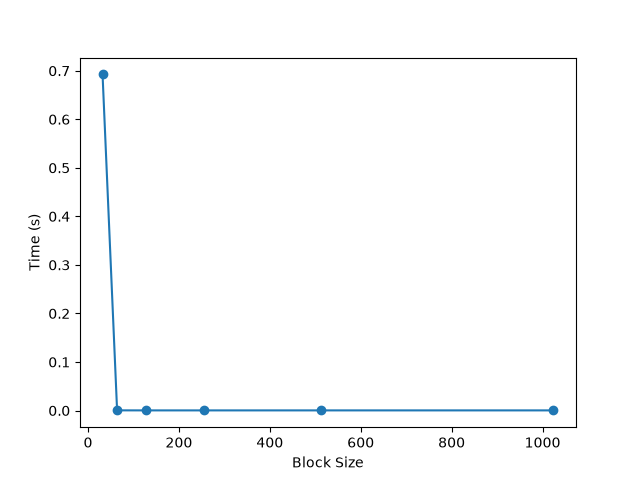
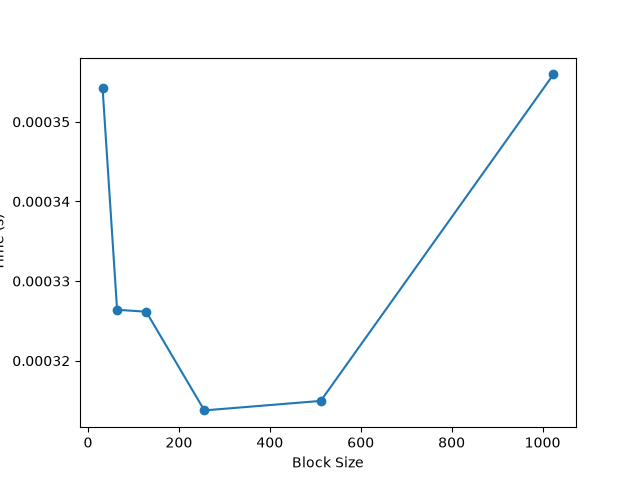
add extra gray scaling

diff --git a/lab3/labwork3_extra.py b/lab3/labwork3_extra.py
@@ -5,12 +5,10 @@ from numba import cuda
 
 @cuda.jit
 def grayscale(src, dst):
-    i = cuda.threadIdx.x + cuda.blockIdx.x * cuda.blockDim.x
-    if i < src.shape[0]:
-        gray = 0.299 * src[i, 0] + 0.587 * src[i, 1] + 0.114 * src[i, 2]
-        dst[i, 0] = gray
-        dst[i, 1] = gray
-        dst[i, 2] = gray
+    tidx = cuda.threadIdx.x + cuda.blockIdx.x * cuda.blockDim.x
+    if tidx < src.shape[0]:
+        g = np.uint8((src[tidx, 0] + src[tidx, 1] + src[tidx, 2]) / 3)
+        dst[tidx, 0] = dst[tidx, 1] = dst[tidx, 2] = g
 
 def main():
     img = plt.imread('input.jpg')
@@ -22,14 +20,11 @@ def main():
     t0 = time.time()
     dst_cpu = np.zeros_like(src)
     for i in range(pixelCount):
-        gray = 0.299 * src[i, 0] + 0.587 * src[i, 1] + 0.114 * src[i, 2]
-        dst_cpu[i, 0] = gray
-        dst_cpu[i, 1] = gray
-        dst_cpu[i, 2] = gray
+        g = np.uint8((src[i, 0] + src[i, 1] + src[i, 2]) / 3)
+        dst_cpu[i, 0] = dst_cpu[i, 1] = dst_cpu[i, 2] = g
     t_cpu = time.time() - t0
     print("CPU time:", t_cpu)
-    plt.imsave('cpu_gray.jpg', dst_cpu.reshape(h, w, 3))
-
+    plt.imsave('cpu_gray_extra.jpg', dst_cpu.reshape(h, w, 3))
     d_src = cuda.to_device(src)
     d_dst = cuda.device_array_like(src)
     blockSizes = [32, 64, 128, 256, 512, 1024]
@@ -37,15 +32,17 @@ def main():
 
     for blockSize in blockSizes:
         gridSize = (pixelCount + blockSize - 1) // blockSize
+        grayscale[gridSize, blockSize](d_src, d_dst)
+        cuda.synchronize()
         t0 = time.time()
         grayscale[gridSize, blockSize](d_src, d_dst)
         cuda.synchronize()
         t_gpu = time.time() - t0
         gpuTimes.append(t_gpu)
         print("GPU time:", blockSize, t_gpu)
-
     dst_gpu = d_dst.copy_to_host()
-    plt.imsave('gpu_gray.jpg', dst_gpu.reshape(h, w, 3))
+    plt.imsave('gpu_gray_extra.jpg', dst_gpu.reshape(h, w, 3))
+
     print("Speedup:", t_cpu / gpuTimes[3])
 
     plt.plot(blockSizes, gpuTimes, 'o-')
